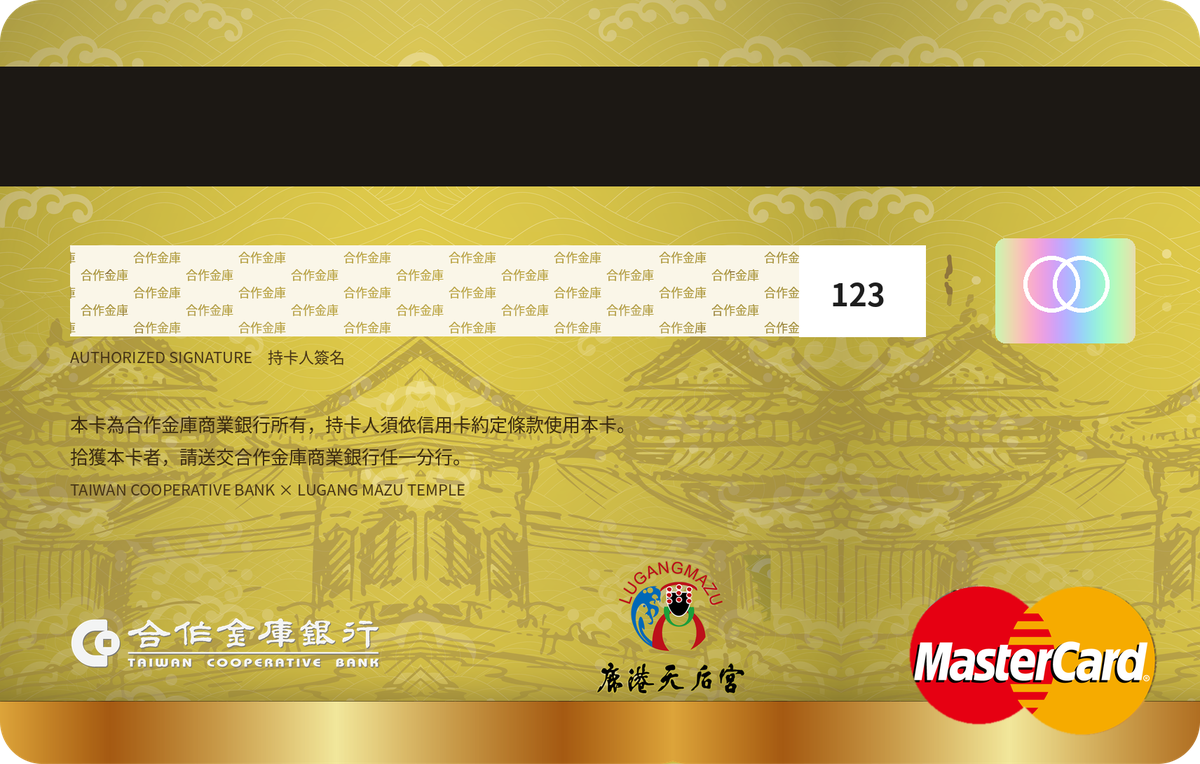
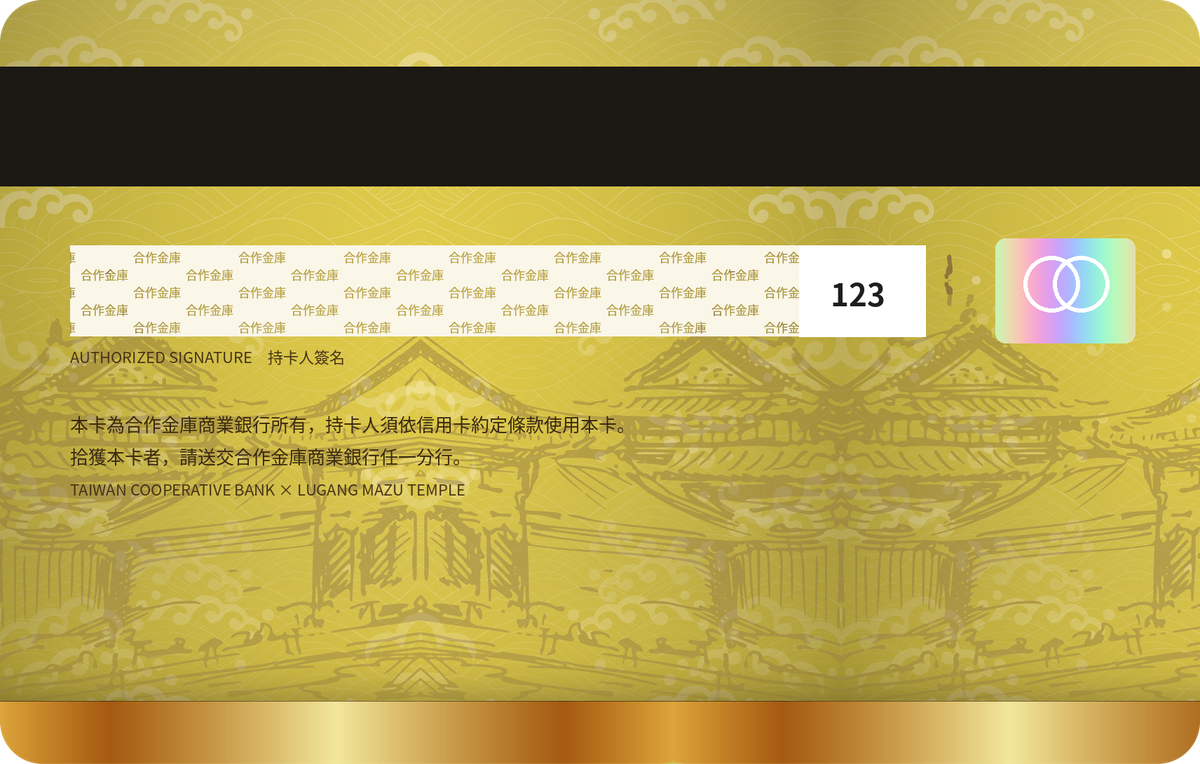
22：卡背移除標誌、拿掉翻面按鈕與卡背備註、修正破折號
Claude-Session: https://claude.ai/code/session_01GjEy689vh6dg91TD7dTNVD

Changed region(s): [[0.74, 0.7526, 0.9867, 0.9634], [0.4933, 0.7225, 0.6475, 0.9031], [0.0617, 0.8128, 0.3392, 0.873]]

diff --git a/works/work-22-credit.html b/works/work-22-credit.html
@@ -48,11 +48,11 @@
     <dl class="cs-meta"><div class="cs-meta__item"><dt>Client</dt><dd>合作金庫銀行 × 鹿港天后宮</dd></div><div class="cs-meta__item"><dt>Role</dt><dd>卡面設計</dd></div><div class="cs-meta__item"><dt>Deliverables</dt><dd>聯名信用卡卡面・申請書延伸</dd></div><div class="cs-meta__item"><dt>Year</dt><dd>2016</dd></div></dl>
     <div class="cs-overview">
       <p class="eyebrow cs-overview__label">Overview</p>
-      <div class="cs-overview__body"><p>為合作金庫銀行與鹿港天后宮聯名信用卡進行卡面設計，結合臺灣最具代表性的民間信仰之一——媽祖文化，打造兼具金融產品功能與文化象徵意義的卡面形象。希望透過莊嚴穩重的視覺語彙，傳遞平安庇佑、闔家安康的祝福，同時提升聯名卡的收藏價值與辨識度。</p></div>
+      <div class="cs-overview__body"><p>為合作金庫銀行與鹿港天后宮聯名信用卡進行卡面設計，結合臺灣最具代表性的民間信仰之一—媽祖文化，打造兼具金融產品功能與文化象徵意義的卡面形象。希望透過莊嚴穩重的視覺語彙，傳遞平安庇佑、闔家安康的祝福，同時提升聯名卡的收藏價值與辨識度。</p></div>
     </div>
     <div class="cs-cards"><article class="cs-card" data-tone="lime"><h2 class="cs-card__title">What I made<small>我的設計</small></h2><p class="cs-card__text">以鹿港天后宮媽祖神像作為卡面主視覺核心，建立莊嚴且具信仰份量的視覺焦點，傳達隨身攜帶、祈求平安的設計意涵。整體以金色作為主調，並搭配傳統紋樣與在地地景元素，延伸出具文化辨識度的背景層次，保有濃厚的廟宇文化特色與紀念性。</p><svg class="cs-card__deco" viewBox="0 0 128 128" aria-hidden="true"><polygon points="64.0,2.0 74.2,19.2 90.9,8.1 92.7,28.0 112.5,25.3 105.4,44.0 124.4,50.2 110.0,64.0 124.4,77.8 105.4,84.0 112.5,102.7 92.7,100.0 90.9,119.9 74.2,108.8 64.0,126.0 53.8,108.8 37.1,119.9 35.3,100.0 15.5,102.7 22.6,84.0 3.6,77.8 18.0,64.0 3.6,50.2 22.6,44.0 15.5,25.3 35.3,28.0 37.1,8.1 53.8,19.2"/></svg></article><article class="cs-card" data-tone="pink"><h2 class="cs-card__title">What happened next<small>後續成果</small></h2><p class="cs-card__text">延續鹿港天后宮聯名信用卡的視覺設計，進一步應用於信用卡申請同意書及各式宣傳素材，透過版面延伸與視覺整合，維持聯名系列的一致性，強化文化特色與品牌辨識度。</p><svg class="cs-card__deco" viewBox="0 0 128 128" aria-hidden="true"><polygon points="64.0,2.0 74.2,19.2 90.9,8.1 92.7,28.0 112.5,25.3 105.4,44.0 124.4,50.2 110.0,64.0 124.4,77.8 105.4,84.0 112.5,102.7 92.7,100.0 90.9,119.9 74.2,108.8 64.0,126.0 53.8,108.8 37.1,119.9 35.3,100.0 15.5,102.7 22.6,84.0 3.6,77.8 18.0,64.0 3.6,50.2 22.6,44.0 15.5,25.3 35.3,28.0 37.1,8.1 53.8,19.2"/></svg></article></div>
     <div class="cs-gallery"></div>
-    <section class="cs-sec cc-sec"><header class="cs-sec__head"><p class="eyebrow">Card in hand</p><h2 class="cs-sec__title">360° Card<small>卡面 360°</small></h2><p class="cs-sec__lead">按住卡片左右拖曳，就能轉到背面。卡號、晶片與銀行標誌是打凸燙銀的部分，轉動時會跟著反光。</p></header><div class="cc" data-cc><div class="cc__stage" tabindex="0" role="group" aria-roledescription="可旋轉的卡片" aria-label="鹿港天后宮聯名信用卡。按住左右拖曳，或用左右方向鍵轉動卡片。"><div class="cc__card"><span class="cc__edge" style="--z:-2"></span><span class="cc__edge" style="--z:-1"></span><span class="cc__edge" style="--z:0"></span><span class="cc__edge" style="--z:1"></span><span class="cc__edge" style="--z:2"></span><div class="cc__face cc__face--front"><picture><source srcset="../public/works/work-22-credit/card-front.webp" type="image/webp"><img class="" src="../public/works/work-22-credit/card-front.png" width="1712" height="1090" alt="信用卡正面：鹿港天后宮媽祖神像為主視覺，金色底搭配海浪紋與廟宇線描" draggable="false" decoding="async"></picture><span class="cc__emb"><picture><source srcset="../public/works/work-22-credit/card-emboss.webp" type="image/webp"><img class="" src="../public/works/work-22-credit/card-emboss.png" width="1712" height="1090" alt="" draggable="false" decoding="async"></picture></span><span class="cc__shine cc__shine--emb" aria-hidden="true"></span><span class="cc__shine" aria-hidden="true"></span></div><div class="cc__face cc__face--back"><picture><source srcset="../public/works/work-22-credit/card-back.webp" type="image/webp"><img class="" src="../public/works/work-22-credit/card-back.png" width="1712" height="1090" alt="信用卡背面：磁條、簽名欄、合作金庫與鹿港天后宮標誌" draggable="false" decoding="async"></picture><span class="cc__shine" aria-hidden="true"></span></div></div></div><div class="cc__ui"><p class="cc__hint" aria-hidden="true"><span>←</span> 拖曳轉動卡片 <span>→</span></p><button type="button" class="cc__btn" data-cc-flip>翻面看背面</button></div></div><p class="cc__note">＊ 背面為依正面設計延伸的示意，非實際發行卡背。</p></section><section class="cs-sec"><header class="cs-sec__head"><p class="eyebrow">Launch</p><h2 class="cs-sec__title">Card Launch<small>發行活動</small></h2><p class="cs-sec__lead">卡片發行後，在鹿港天后宮舉辦過爐祈福的發行活動，延伸設計的申請書也一同陳列。</p></header><div class="cc-photos"><figure class="bq-fig"><button type="button" class="bq-fig__img" data-lb="cc" aria-label="放大檢視：卡片陳列於天后宮內"><picture><source srcset="../public/works/work-22-credit/web-p1.webp" type="image/webp"><img src="../public/works/work-22-credit/web-p1.jpg" width="900" height="600" alt="天后宮內整齊陳列的聯名卡與申請書" loading="lazy" decoding="async"></picture></button><figcaption>✦ 卡片陳列於天后宮內</figcaption></figure><figure class="bq-fig"><button type="button" class="bq-fig__img" data-lb="cc" aria-label="放大檢視：發行儀式合影"><picture><source srcset="../public/works/work-22-credit/web-p2.webp" type="image/webp"><img src="../public/works/work-22-credit/web-p2.jpg" width="900" height="600" alt="銀行代表與天后宮代表手持放大版聯名卡合影" loading="lazy" decoding="async"></picture></button><figcaption>✦ 發行儀式合影</figcaption></figure><figure class="bq-fig"><button type="button" class="bq-fig__img" data-lb="cc" aria-label="放大檢視：延伸設計：信用卡申請書"><picture><source srcset="../public/works/work-22-credit/web-p3.webp" type="image/webp"><img src="../public/works/work-22-credit/web-p3.jpg" width="900" height="600" alt="鋪成扇形的聯名卡申請書，放在紅色桌布上" loading="lazy" decoding="async"></picture></button><figcaption>✦ 延伸設計：信用卡申請書</figcaption></figure></div><p class="cc__note">＊ 活動照片取自鹿港天后宮官方網站。</p></section>
+    <section class="cs-sec cc-sec"><header class="cs-sec__head"><p class="eyebrow">Card in hand</p><h2 class="cs-sec__title">360° Card<small>卡面 360°</small></h2><p class="cs-sec__lead">按住卡片左右拖曳，就能轉到背面。卡號、晶片與銀行標誌是打凸燙銀的部分，轉動時會跟著反光。</p></header><div class="cc" data-cc><div class="cc__stage" tabindex="0" role="group" aria-roledescription="可旋轉的卡片" aria-label="鹿港天后宮聯名信用卡。按住左右拖曳，或用左右方向鍵轉動卡片。"><div class="cc__card"><span class="cc__edge" style="--z:-2"></span><span class="cc__edge" style="--z:-1"></span><span class="cc__edge" style="--z:0"></span><span class="cc__edge" style="--z:1"></span><span class="cc__edge" style="--z:2"></span><div class="cc__face cc__face--front"><picture><source srcset="../public/works/work-22-credit/card-front.webp?v=1123b" type="image/webp"><img class="" src="../public/works/work-22-credit/card-front.png?v=1123b" width="1712" height="1090" alt="信用卡正面：鹿港天后宮媽祖神像為主視覺，金色底搭配海浪紋與廟宇線描" draggable="false" decoding="async"></picture><span class="cc__emb"><picture><source srcset="../public/works/work-22-credit/card-emboss.webp?v=1123b" type="image/webp"><img class="" src="../public/works/work-22-credit/card-emboss.png?v=1123b" width="1712" height="1090" alt="" draggable="false" decoding="async"></picture></span><span class="cc__shine cc__shine--emb" aria-hidden="true"></span><span class="cc__shine" aria-hidden="true"></span></div><div class="cc__face cc__face--back"><picture><source srcset="../public/works/work-22-credit/card-back.webp?v=1123b" type="image/webp"><img class="" src="../public/works/work-22-credit/card-back.png?v=1123b" width="1712" height="1090" alt="信用卡背面：磁條、簽名欄、合作金庫與鹿港天后宮標誌" draggable="false" decoding="async"></picture><span class="cc__shine" aria-hidden="true"></span></div></div></div><div class="cc__ui"><p class="cc__hint" aria-hidden="true"><span>←</span> 拖曳轉動卡片 <span>→</span></p></div></div></section><section class="cs-sec"><header class="cs-sec__head"><p class="eyebrow">Launch</p><h2 class="cs-sec__title">Card Launch<small>發行活動</small></h2><p class="cs-sec__lead">卡片發行後，在鹿港天后宮舉辦過爐祈福的發行活動，延伸設計的申請書也一同陳列。</p></header><div class="cc-photos"><figure class="bq-fig"><button type="button" class="bq-fig__img" data-lb="cc" aria-label="放大檢視：卡片陳列於天后宮內"><picture><source srcset="../public/works/work-22-credit/web-p1.webp" type="image/webp"><img src="../public/works/work-22-credit/web-p1.jpg" width="900" height="600" alt="天后宮內整齊陳列的聯名卡與申請書" loading="lazy" decoding="async"></picture></button><figcaption>✦ 卡片陳列於天后宮內</figcaption></figure><figure class="bq-fig"><button type="button" class="bq-fig__img" data-lb="cc" aria-label="放大檢視：發行儀式合影"><picture><source srcset="../public/works/work-22-credit/web-p2.webp" type="image/webp"><img src="../public/works/work-22-credit/web-p2.jpg" width="900" height="600" alt="銀行代表與天后宮代表手持放大版聯名卡合影" loading="lazy" decoding="async"></picture></button><figcaption>✦ 發行儀式合影</figcaption></figure><figure class="bq-fig"><button type="button" class="bq-fig__img" data-lb="cc" aria-label="放大檢視：延伸設計：信用卡申請書"><picture><source srcset="../public/works/work-22-credit/web-p3.webp" type="image/webp"><img src="../public/works/work-22-credit/web-p3.jpg" width="900" height="600" alt="鋪成扇形的聯名卡申請書，放在紅色桌布上" loading="lazy" decoding="async"></picture></button><figcaption>✦ 延伸設計：信用卡申請書</figcaption></figure></div><p class="cc__note">＊ 活動照片取自鹿港天后宮官方網站。</p></section>
   </div>
 </section>
 

diff --git a/tools/case_extra.py b/tools/case_extra.py
@@ -186,7 +186,7 @@ def gacha():
     l=f'<p class="cs-sec__lead">{lead}</p>' if lead else ''
     return f'<header class="cs-sec__head"><p class="eyebrow">{eb}</p><h2 class="cs-sec__title">{en}<small>{zh}</small></h2>{l}</header>'
   def apic(n,w,h,cls):
-    return f'<picture><source srcset="{P}{F}{n}.webp" type="image/webp"><img class="{cls}" src="{P}{F}{n}.png" width="{w}" height="{h}" alt="" decoding="async"></picture>'
+    return f'<picture><source srcset="{P}{F}{n}.webp?v=1123b" type="image/webp"><img class="{cls}" src="{P}{F}{n}.png?v=1123b" width="{w}" height="{h}" alt="" decoding="async"></picture>'
   steps=[('landing','01','活動頁','扭蛋機主視覺搭配獎項說明，引導用戶按下「馬上前往」。'),
          ('anim','02','扭蛋動畫','扭蛋機搖晃、扭蛋滾出並彈開，製造開獎的期待感。'),
          ('result','03','結果頁','達Q貓帶來財氣好禮，引導領取獎勵與分享活動。')]
@@ -471,7 +471,7 @@ def credit():
   # 22 鹿港天后宮聯名信用卡：可拖曳 360° 卡片＋發行活動照片
   F='work-22-credit/'
   def face(n,alt,cls=''):
-    return f'<picture><source srcset="{P}{F}{n}.webp" type="image/webp"><img class="{cls}" src="{P}{F}{n}.png" width="1712" height="1090" alt="{alt}" draggable="false" decoding="async"></picture>'
+    return f'<picture><source srcset="{P}{F}{n}.webp?v=1123b" type="image/webp"><img class="{cls}" src="{P}{F}{n}.png?v=1123b" width="1712" height="1090" alt="{alt}" draggable="false" decoding="async"></picture>'
   edges=''.join(f'<span class="cc__edge" style="--z:{z}"></span>' for z in range(-2,3))
   card=(f'<div class="cc" data-cc>'
         f'<div class="cc__stage" tabindex="0" role="group" aria-roledescription="可旋轉的卡片" aria-label="鹿港天后宮聯名信用卡。按住左右拖曳，或用左右方向鍵轉動卡片。">'
@@ -481,12 +481,12 @@ def credit():
         f'<div class="cc__face cc__face--back">{face("card-back","信用卡背面：磁條、簽名欄、合作金庫與鹿港天后宮標誌")}<span class="cc__shine" aria-hidden="true"></span></div>'
         f'</div></div>'
         f'<div class="cc__ui"><p class="cc__hint" aria-hidden="true"><span>←</span> 拖曳轉動卡片 <span>→</span></p>'
-        f'<button type="button" class="cc__btn" data-cc-flip>翻面看背面</button></div></div>')
+        f'</div></div>')
   photos=[('web-p1',900,600,'天后宮內整齊陳列的聯名卡與申請書','卡片陳列於天后宮內'),
           ('web-p2',900,600,'銀行代表與天后宮代表手持放大版聯名卡合影','發行儀式合影'),
           ('web-p3',900,600,'鋪成扇形的聯名卡申請書，放在紅色桌布上','延伸設計：信用卡申請書')]
   figs=''.join(f'<figure class="bq-fig"><button type="button" class="bq-fig__img" data-lb="cc" aria-label="放大檢視：{c}">{pic(F+n,w,h,a)}</button><figcaption>✦ {c}</figcaption></figure>' for n,w,h,a,c in photos)
   return (f'<section class="cs-sec cc-sec">{head("Card in hand","360° Card","卡面 360°","按住卡片左右拖曳，就能轉到背面。卡號、晶片與銀行標誌是打凸燙銀的部分，轉動時會跟著反光。")}{card}'
-          f'<p class="cc__note">＊ 背面為依正面設計延伸的示意，非實際發行卡背。</p></section>'
+          f'</section>'
           f'<section class="cs-sec">{head("Launch","Card Launch","發行活動","卡片發行後，在鹿港天后宮舉辦過爐祈福的發行活動，延伸設計的申請書也一同陳列。")}'
           f'<div class="cc-photos">{figs}</div><p class="cc__note">＊ 活動照片取自鹿港天后宮官方網站。</p></section>')

diff --git a/tools/case_data.py b/tools/case_data.py
@@ -252,7 +252,7 @@ CASES={
   tags=['平面設計','合作金庫','2016'],tagline='',
   cover='work-22-credit/web-cover',cover_w=2400,cover_h=1600,cover_alt='鹿港天后宮聯名信用卡正面：媽祖神像與金色海浪紋卡面',
   meta=[('Client','合作金庫銀行 × 鹿港天后宮'),('Role','卡面設計'),('Deliverables','聯名信用卡卡面・申請書延伸'),('Year','2016')],
-  overview='<p>為合作金庫銀行與鹿港天后宮聯名信用卡進行卡面設計，結合臺灣最具代表性的民間信仰之一——媽祖文化，打造兼具金融產品功能與文化象徵意義的卡面形象。希望透過莊嚴穩重的視覺語彙，傳遞平安庇佑、闔家安康的祝福，同時提升聯名卡的收藏價值與辨識度。</p>',
+  overview='<p>為合作金庫銀行與鹿港天后宮聯名信用卡進行卡面設計，結合臺灣最具代表性的民間信仰之一—媽祖文化，打造兼具金融產品功能與文化象徵意義的卡面形象。希望透過莊嚴穩重的視覺語彙，傳遞平安庇佑、闔家安康的祝福，同時提升聯名卡的收藏價值與辨識度。</p>',
   cards=[dict(tone='lime',title='What I made',zh='我的設計',text='以鹿港天后宮媽祖神像作為卡面主視覺核心，建立莊嚴且具信仰份量的視覺焦點，傳達隨身攜帶、祈求平安的設計意涵。整體以金色作為主調，並搭配傳統紋樣與在地地景元素，延伸出具文化辨識度的背景層次，保有濃厚的廟宇文化特色與紀念性。'),
          dict(tone='pink',title='What happened next',zh='後續成果',text='延續鹿港天后宮聯名信用卡的視覺設計，進一步應用於信用卡申請同意書及各式宣傳素材，透過版面延伸與視覺整合，維持聯名系列的一致性，強化文化特色與品牌辨識度。')],
   gallery_style='none',gallery=[],extra=case_extra.credit(),
